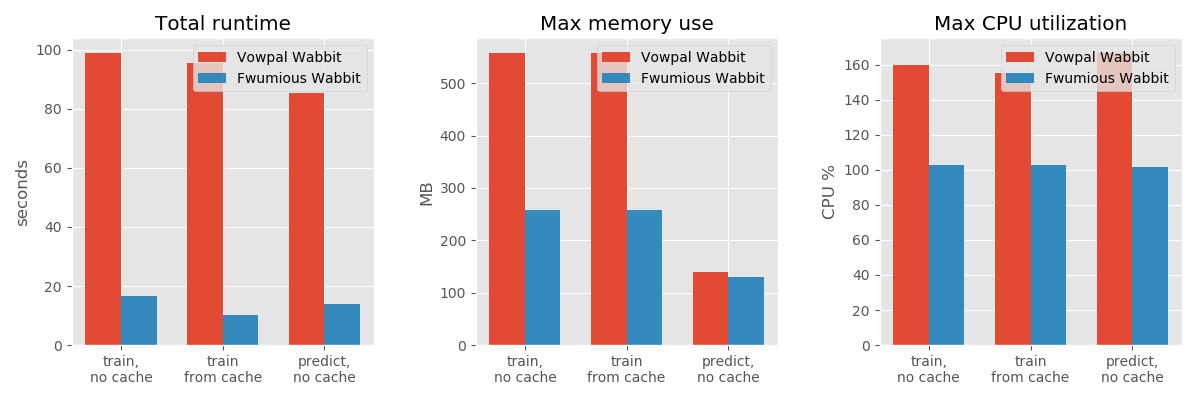
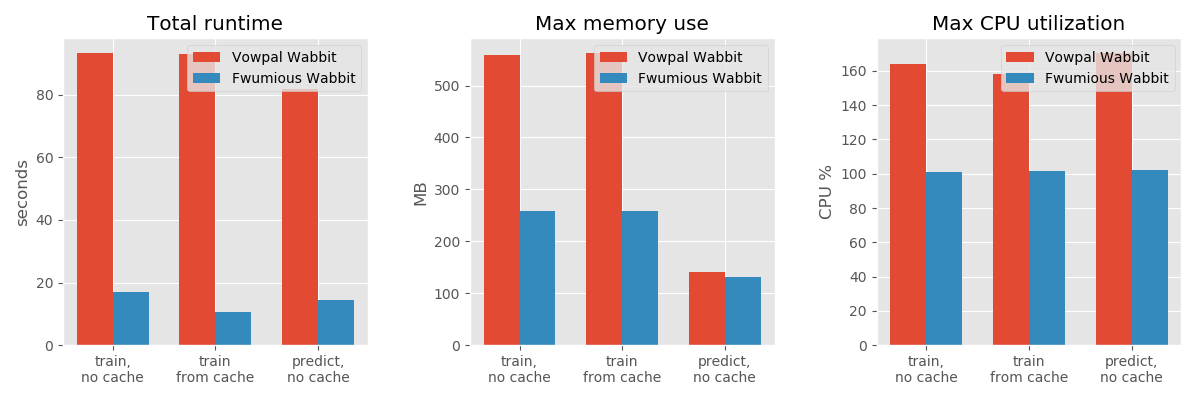
bumping version & benchmark info

diff --git a/src/version.rs b/src/version.rs
@@ -1,1 +1,1 @@
-pub static LATEST: &str = "1.2";
+pub static LATEST: &str = "1.3";

diff --git a/BENCHMARK.md b/BENCHMARK.md
@@ -14,12 +14,12 @@ here are the results for 3 runs for each scenario, taking mean values:
 ![benchmark results](benchmark_results.png)
 Scenario|Runtime (seconds)|Memory (MB)|CPU %
 ----|----:|----:|----:
-vw train, no cache|98.92 | 558 | 159.97
-fw train, no cache|16.50 | 257 | 102.57
-vw train, using cache|95.61 | 558 | 155.47
-fw train, using cache|10.25 | 257 | 102.50
-vw predict, no cache|85.48 | 139 | 166.73
-fw predict, no cache|13.81 | 129 | 101.40
+vw train, no cache|93.42 | 560 | 164.20
+fw train, no cache|16.98 | 258 | 100.87
+vw train, using cache|93.08 | 563 | 158.33
+fw train, using cache|10.67 | 258 | 101.47
+vw predict, no cache|81.88 | 141 | 170.50
+fw predict, no cache|14.42 | 130 | 102.17
 
 ### Model equivalence
 loss values for the test set:
@@ -82,7 +82,7 @@ or, if you just want the numbers with less dependencies run:
 ### versions:
 ```
 vowpal wabbit 8.9.2 (git commit: 884420267)
-fwumious wabbit 1.2 (git commit: 6808bce)
+fwumious wabbit 1.3 (git commit: cf3c215)
 ```
 
 ### CPU Info
@@ -92,5 +92,5 @@ Intel(R) Xeon(R) CPU E5-2630 v2 @ 2.60GHz
 ### Operating System
 ```
 System: Linux
-Version: #186-Ubuntu SMP Mon Dec 4 19:09:19 UTC 2017
+Version: #174~14.04.1-Ubuntu SMP Thu May 9 08:17:37 UTC 2019
 ```
